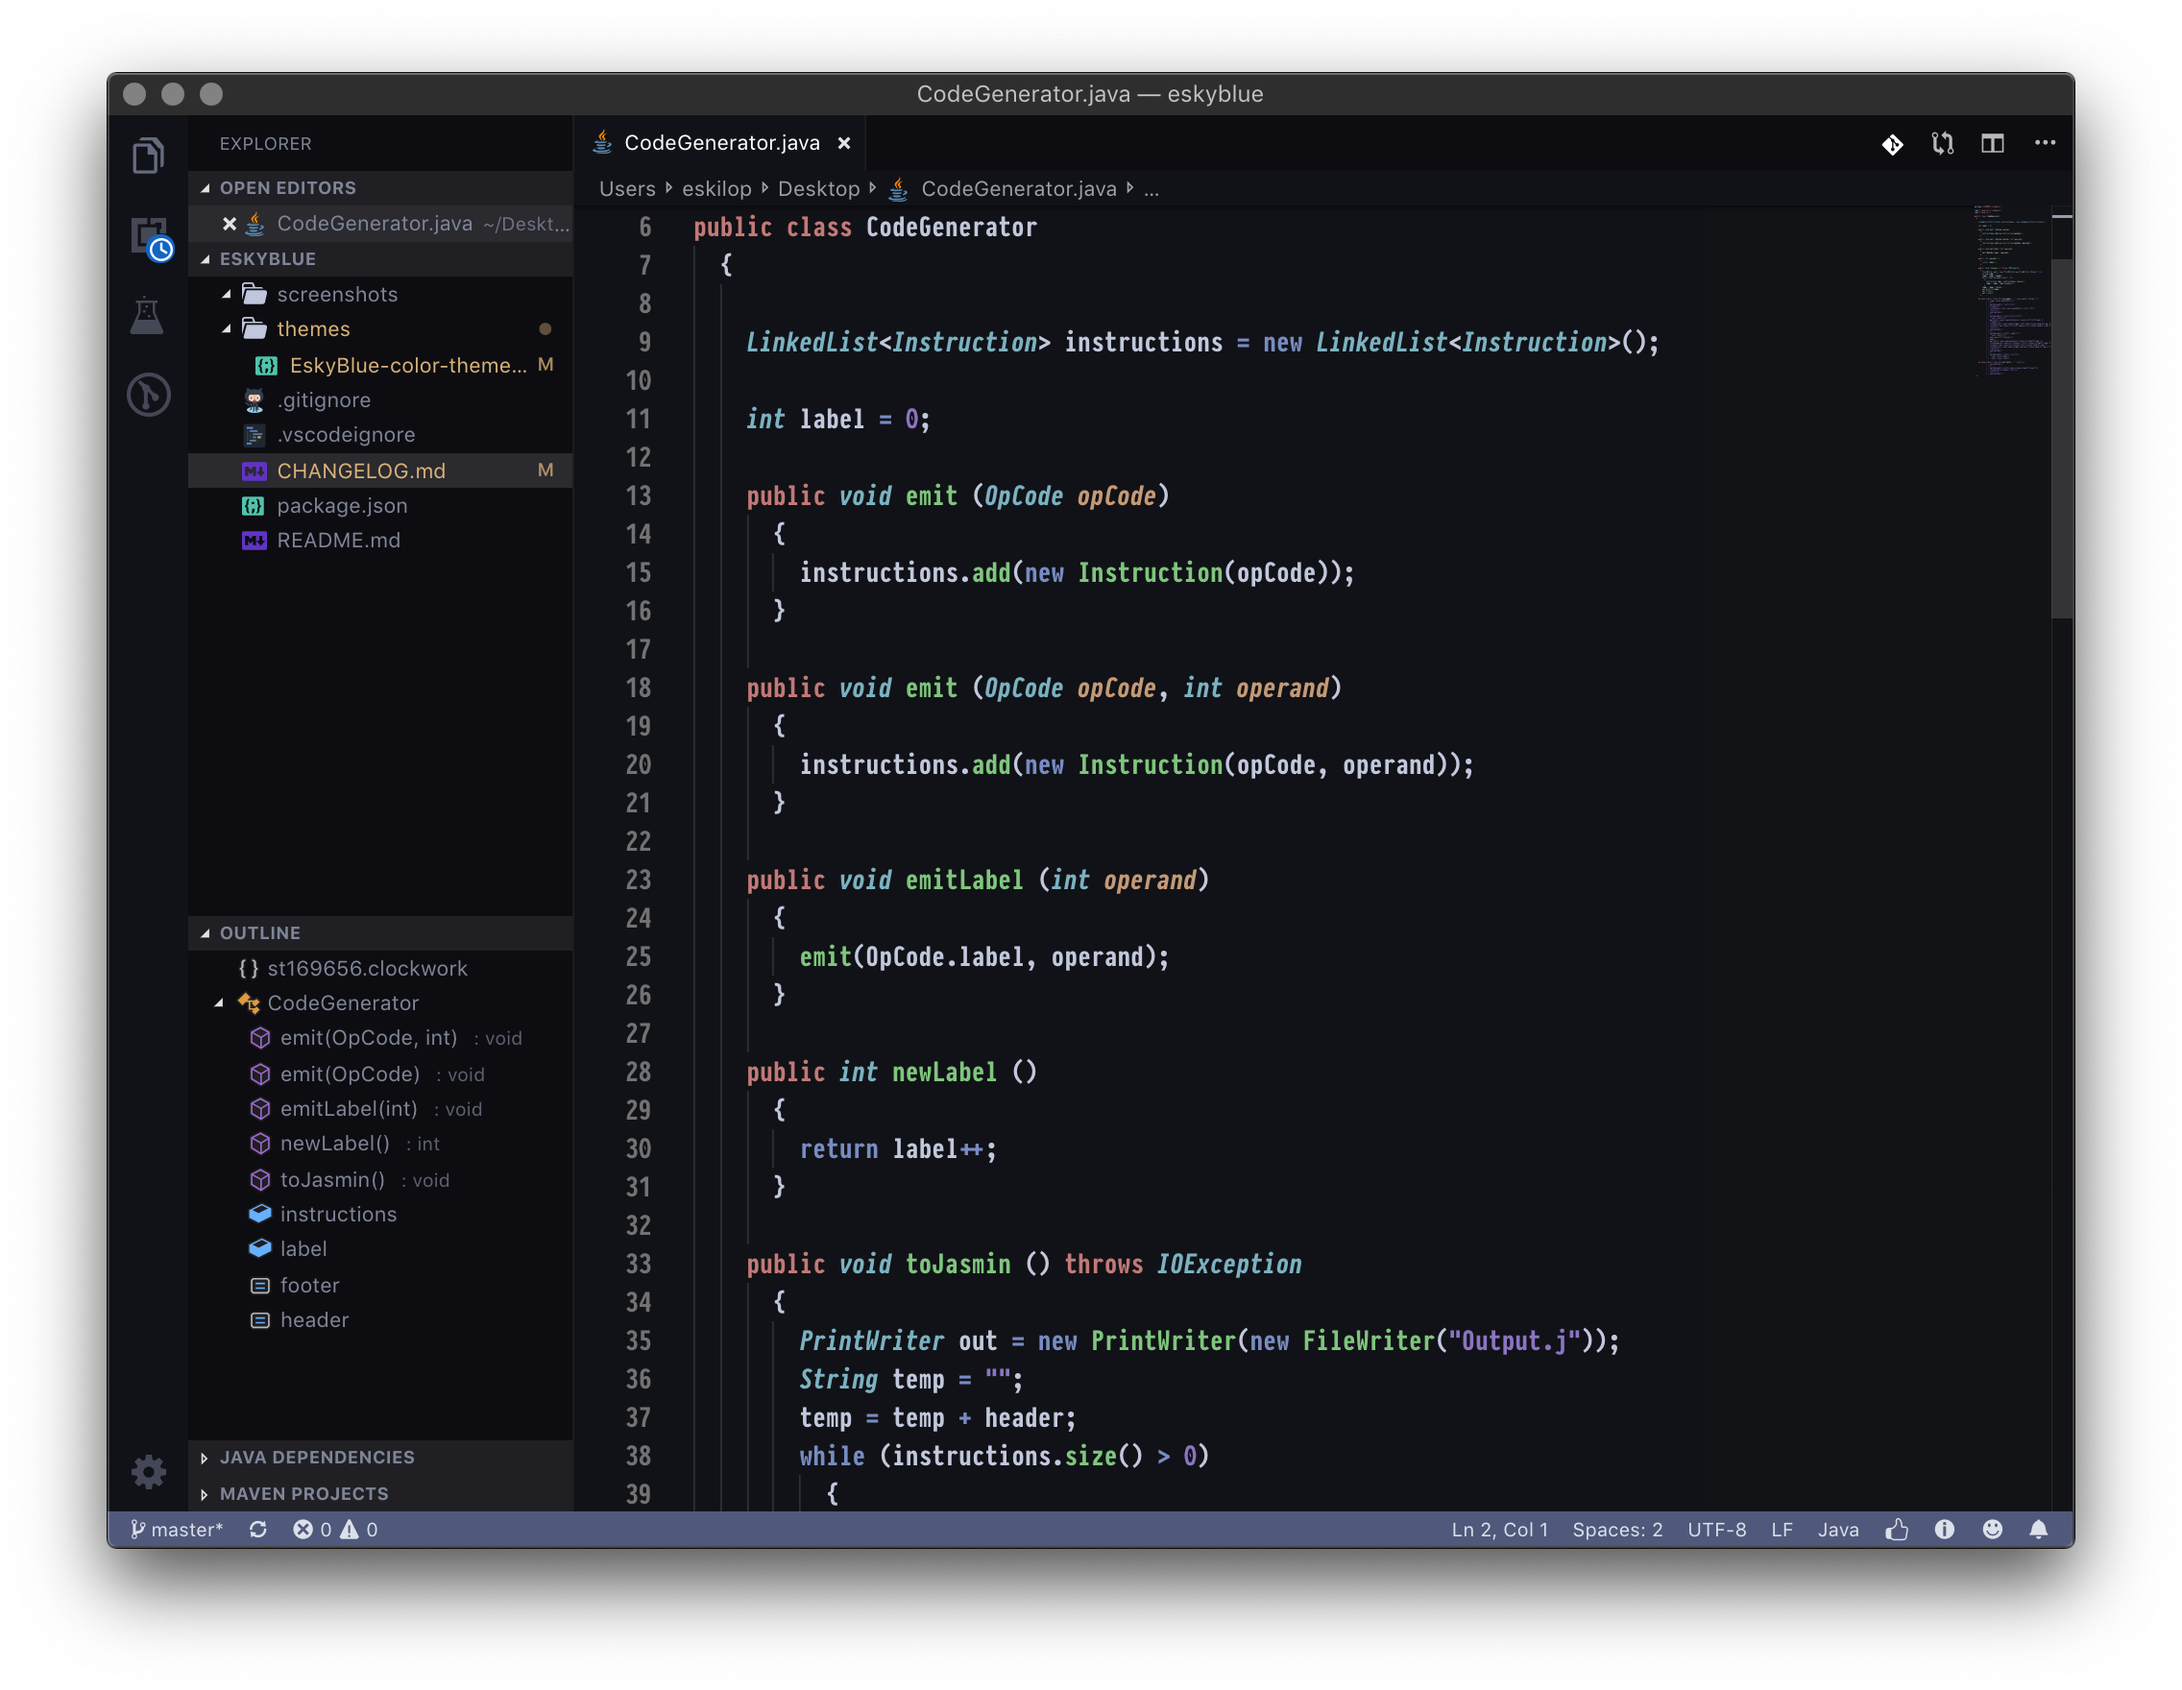
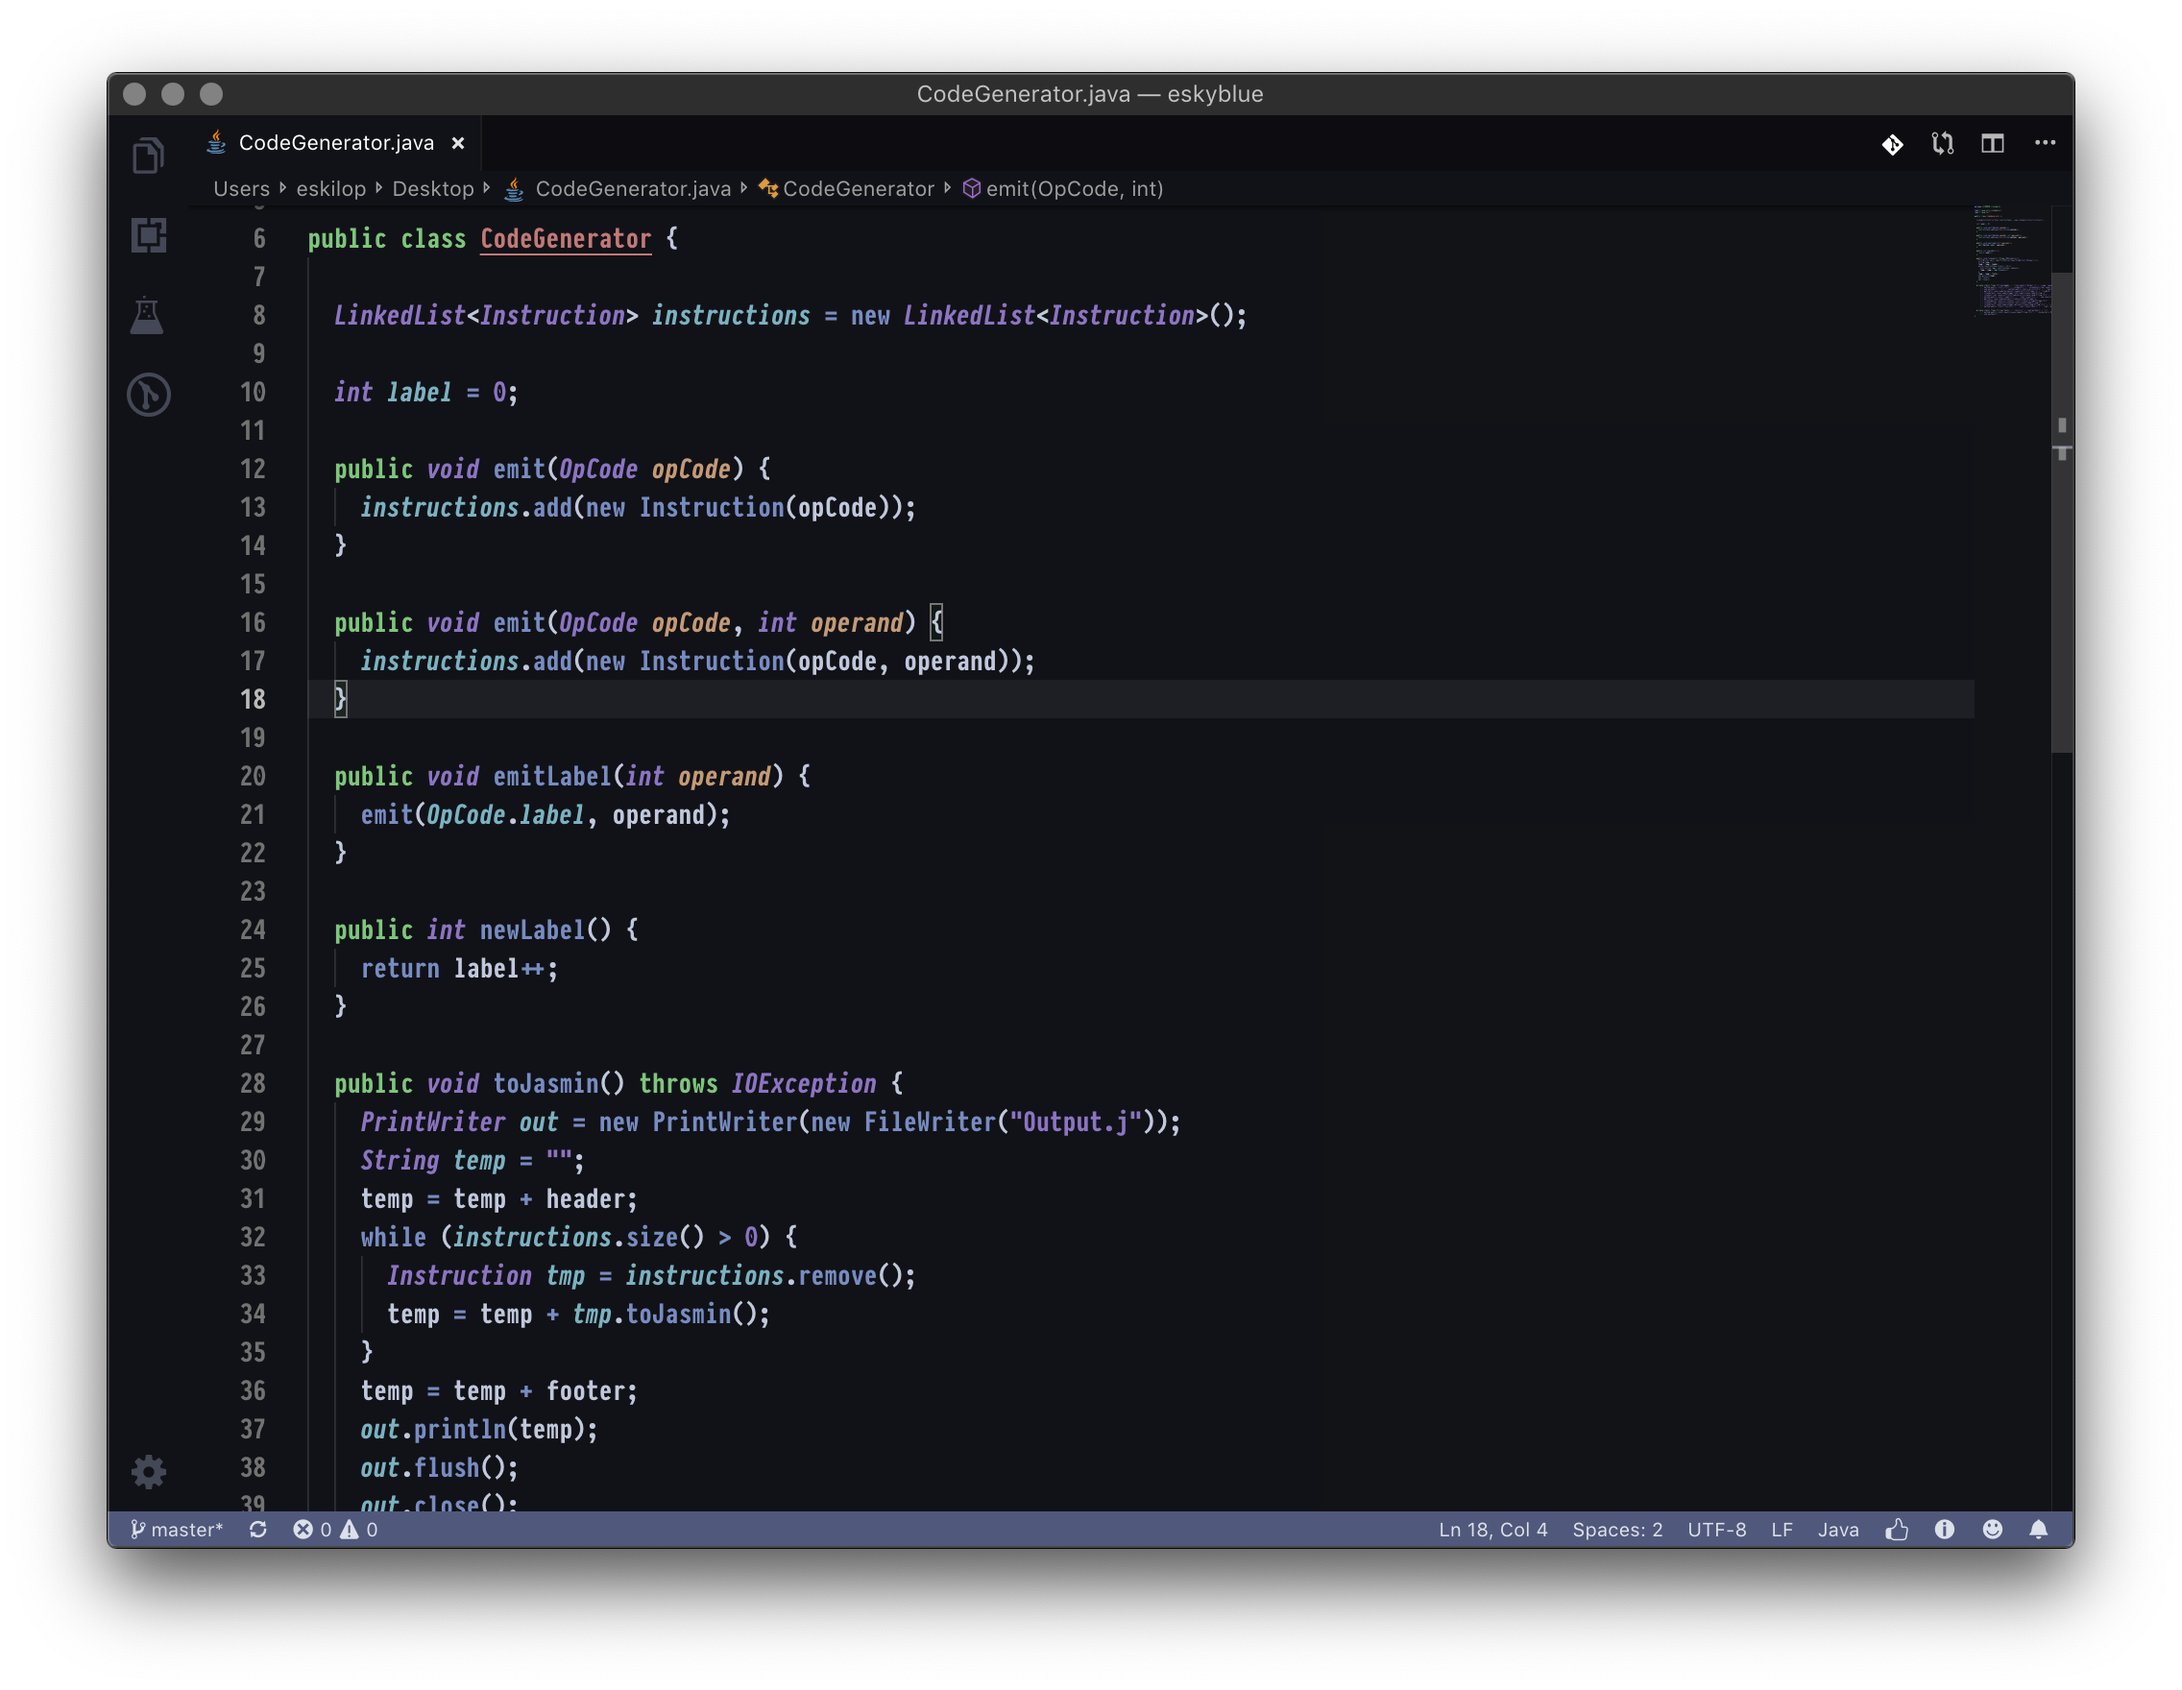
Change color disposition, rename to NorthernLights

diff --git a/README.md b/README.md
@@ -1,8 +1,8 @@
 # README
-EskyBlue: A dark blue WIP theme for vscode
+NorthernLights: A dark blue WIP theme for vscode
 <img src="./screenshots/1.png" />
 
 ## Installation
 ```bash
-git clone https://gitlab.com/Eskilop/EskyBlueVSC ~/.vscode/extensions/eskyblue
+git clone https://gitlab.com/Eskilop/NorthernLightsVSC ~/.vscode/extensions/northernlights
 ```

diff --git a/CHANGELOG.md b/CHANGELOG.md
@@ -7,3 +7,4 @@ All notable changes to this project will be documented in this file.
 
 ### Changed
 - More color saturation
+- Color mappings
